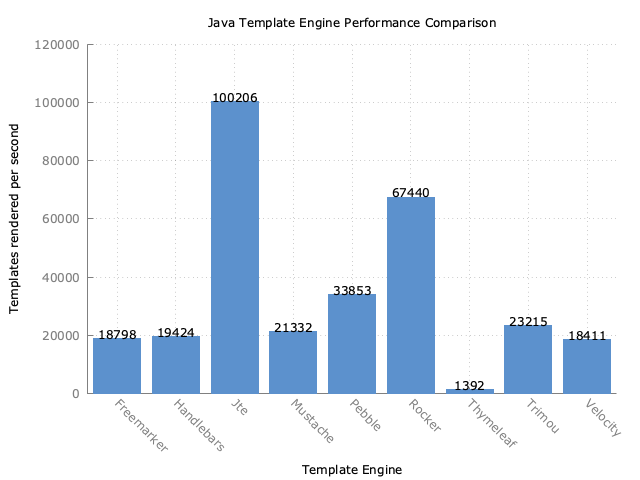
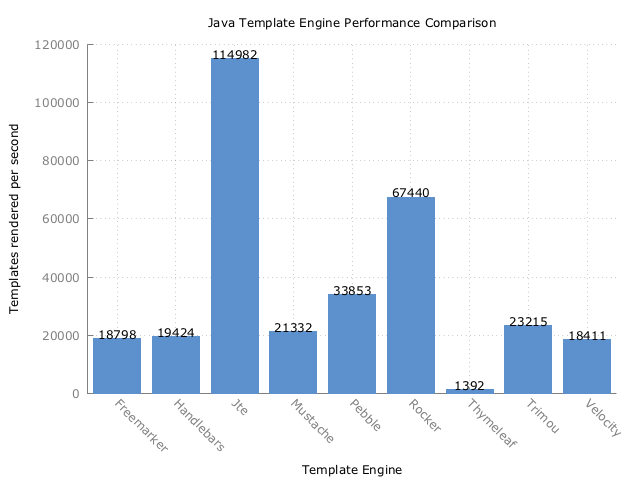
Update benchmark with jte 0.8.0

diff --git a/src/main/java/com/mitchellbosecke/benchmark/Jte.java b/src/main/java/com/mitchellbosecke/benchmark/Jte.java
@@ -2,6 +2,7 @@ package com.mitchellbosecke.benchmark;
 
 
 import com.mitchellbosecke.benchmark.model.Stock;
+import org.jusecase.jte.ContentType;
 import org.jusecase.jte.TemplateEngine;
 import org.jusecase.jte.output.StringOutput;
 import org.jusecase.jte.output.StringOutputPool;
@@ -19,7 +20,7 @@ import java.util.List;
  * @author casid
  */
 public class Jte extends BaseBenchmark {
-    private final StringOutputPool stringOutputPool = new StringOutputPool();
+    private static final StringOutputPool stringOutputPool = new StringOutputPool();
     private TemplateEngine templateEngine;
     private List<Stock> items;
 
@@ -27,7 +28,7 @@ public class Jte extends BaseBenchmark {
     public void setup() {
         items = Stock.dummyItems();
 
-        templateEngine = TemplateEngine.createPrecompiled(Path.of("jte"));
+        templateEngine = TemplateEngine.createPrecompiled(Path.of("jte-classes"), ContentType.Plain);
         templateEngine.prepareForRendering("stocks.jte");
     }
 
